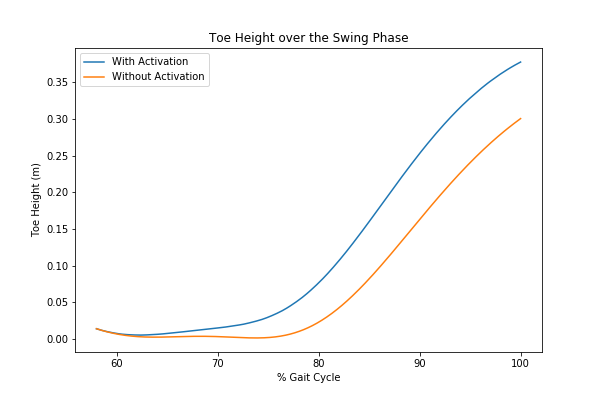
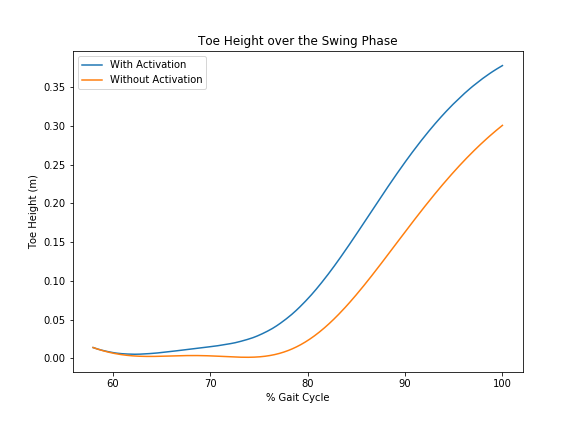
replace comparison

Changed region(s): [[0.031, 0.0597, 0.8985, 0.9552], [0.4028, 0.7761, 0.4337, 0.806], [0.2169, 0.806, 0.2478, 0.8358]]

diff --git a/motion_model.py b/motion_model.py
@@ -389,7 +389,7 @@ class MotionModel:
       plt.show()
   
       # Toe height vs time - Plot toe height over gait cycle (swing phase to end)
-      gnd_hip = 0.92964 - (-0.009488720645956072) + 0.005  # m
+      gnd_hip = 0.92964 - (-0.009488720645956072) + 0.001  # m
       x = np.arange(self.start,self.end,.01)
       true_position = [[],[]]
       for ite in x:
@@ -495,7 +495,7 @@ class MotionModel:
   
   
   def compare_toe_height(self):
-    gnd_hip = 0.92964 - (-0.009488720645956072) + 0.005 # m 
+    gnd_hip = 0.92964 - (-0.009488720645956072) + 0.001 # m 
     target_toe_position = []  
     predicted_toe_position = []
     
@@ -519,10 +519,11 @@ class MotionModel:
 if __name__ == '__main__':
     motion_model = MotionModel( start=0.58, end=1, frequency = 50, duty_cycle = 0.4, scaling = 1, non_linearity = -1, shape_="monophasic")
     motion_model.simulate(mode="rk45")
+    print(motion_model.compare_toe_height())
     
-    
-    motion_model_2 = MotionModel( start=0.58, end=1, frequency = 50, duty_cycle = 0, scaling = 1, non_linearity = -1, shape_="monophasic")
+    motion_model_2 = MotionModel(start=0.58, end=1, frequency =2, duty_cycle = 0, scaling = 1, non_linearity = -1, shape_="monophasic")
     motion_model_2.simulate(mode="rk45")
+    print(motion_model_2.compare_toe_height())
     
     plt.figure()
     motion_model.plot_toe_height()
